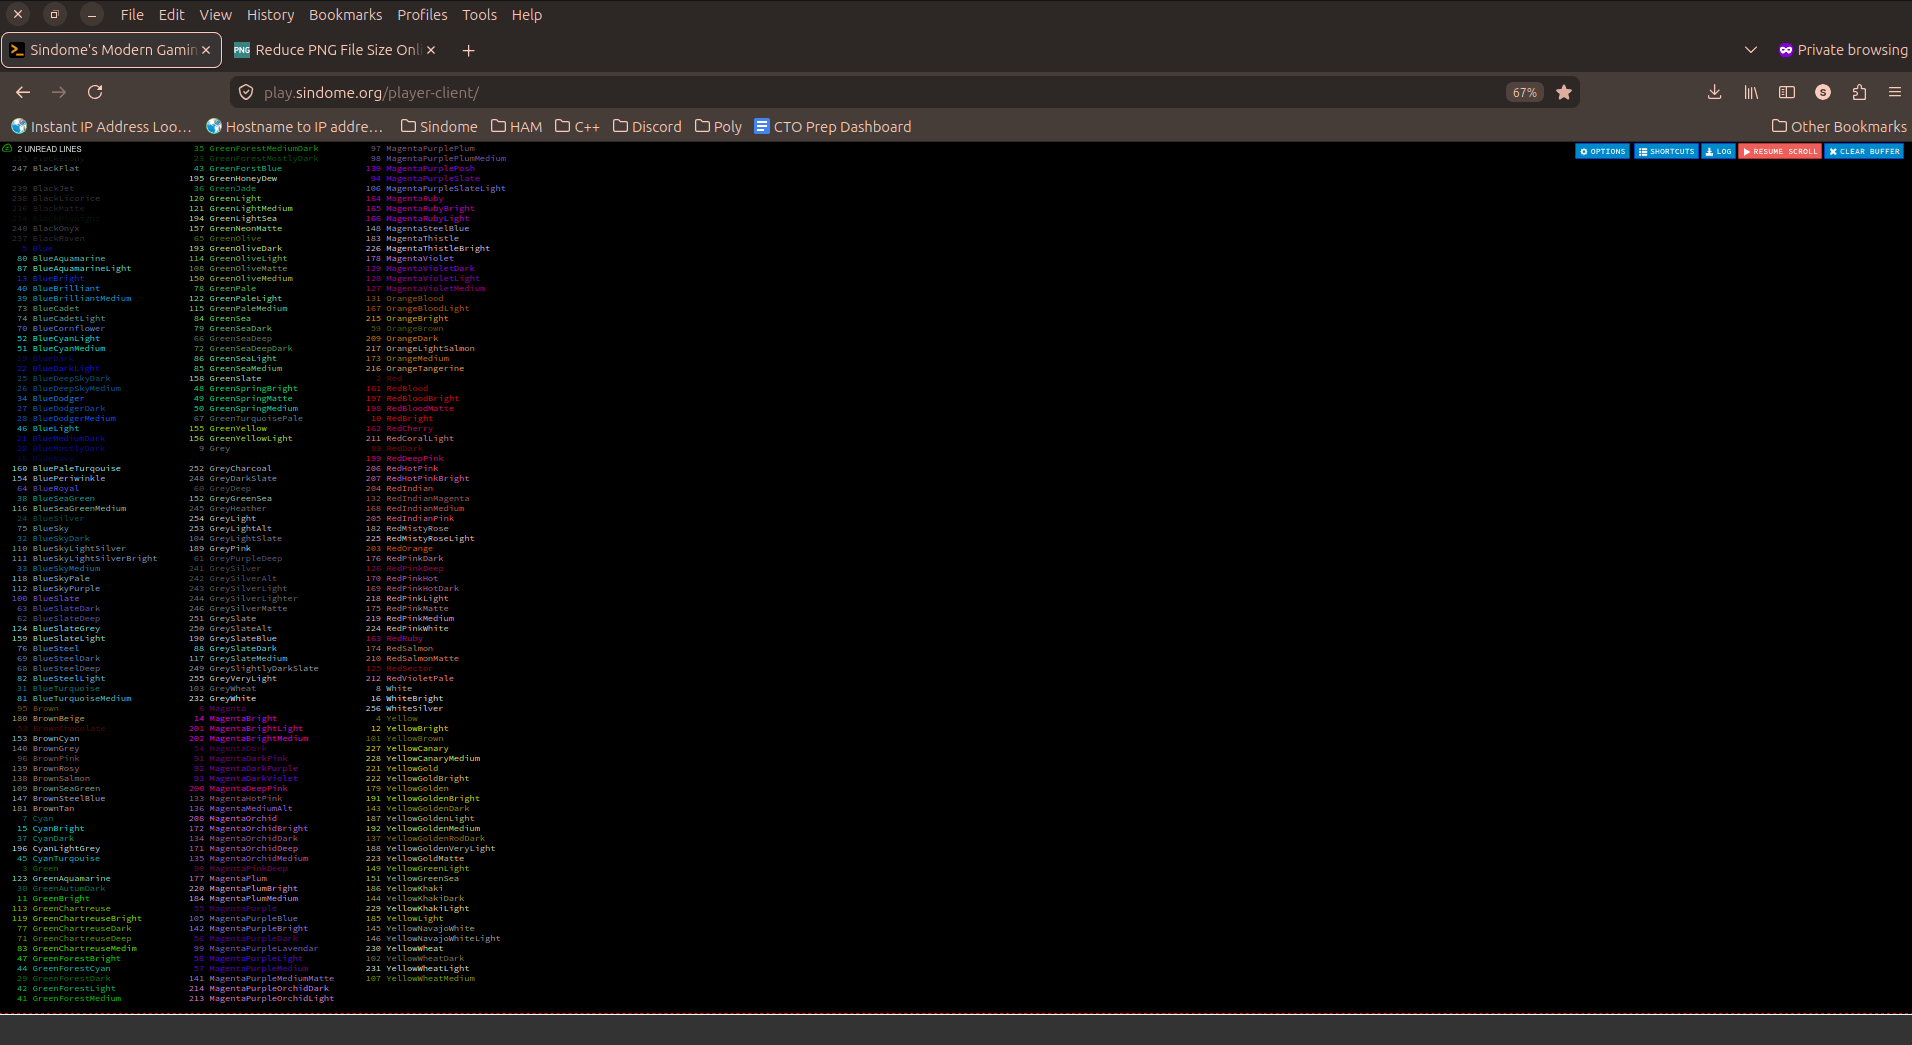
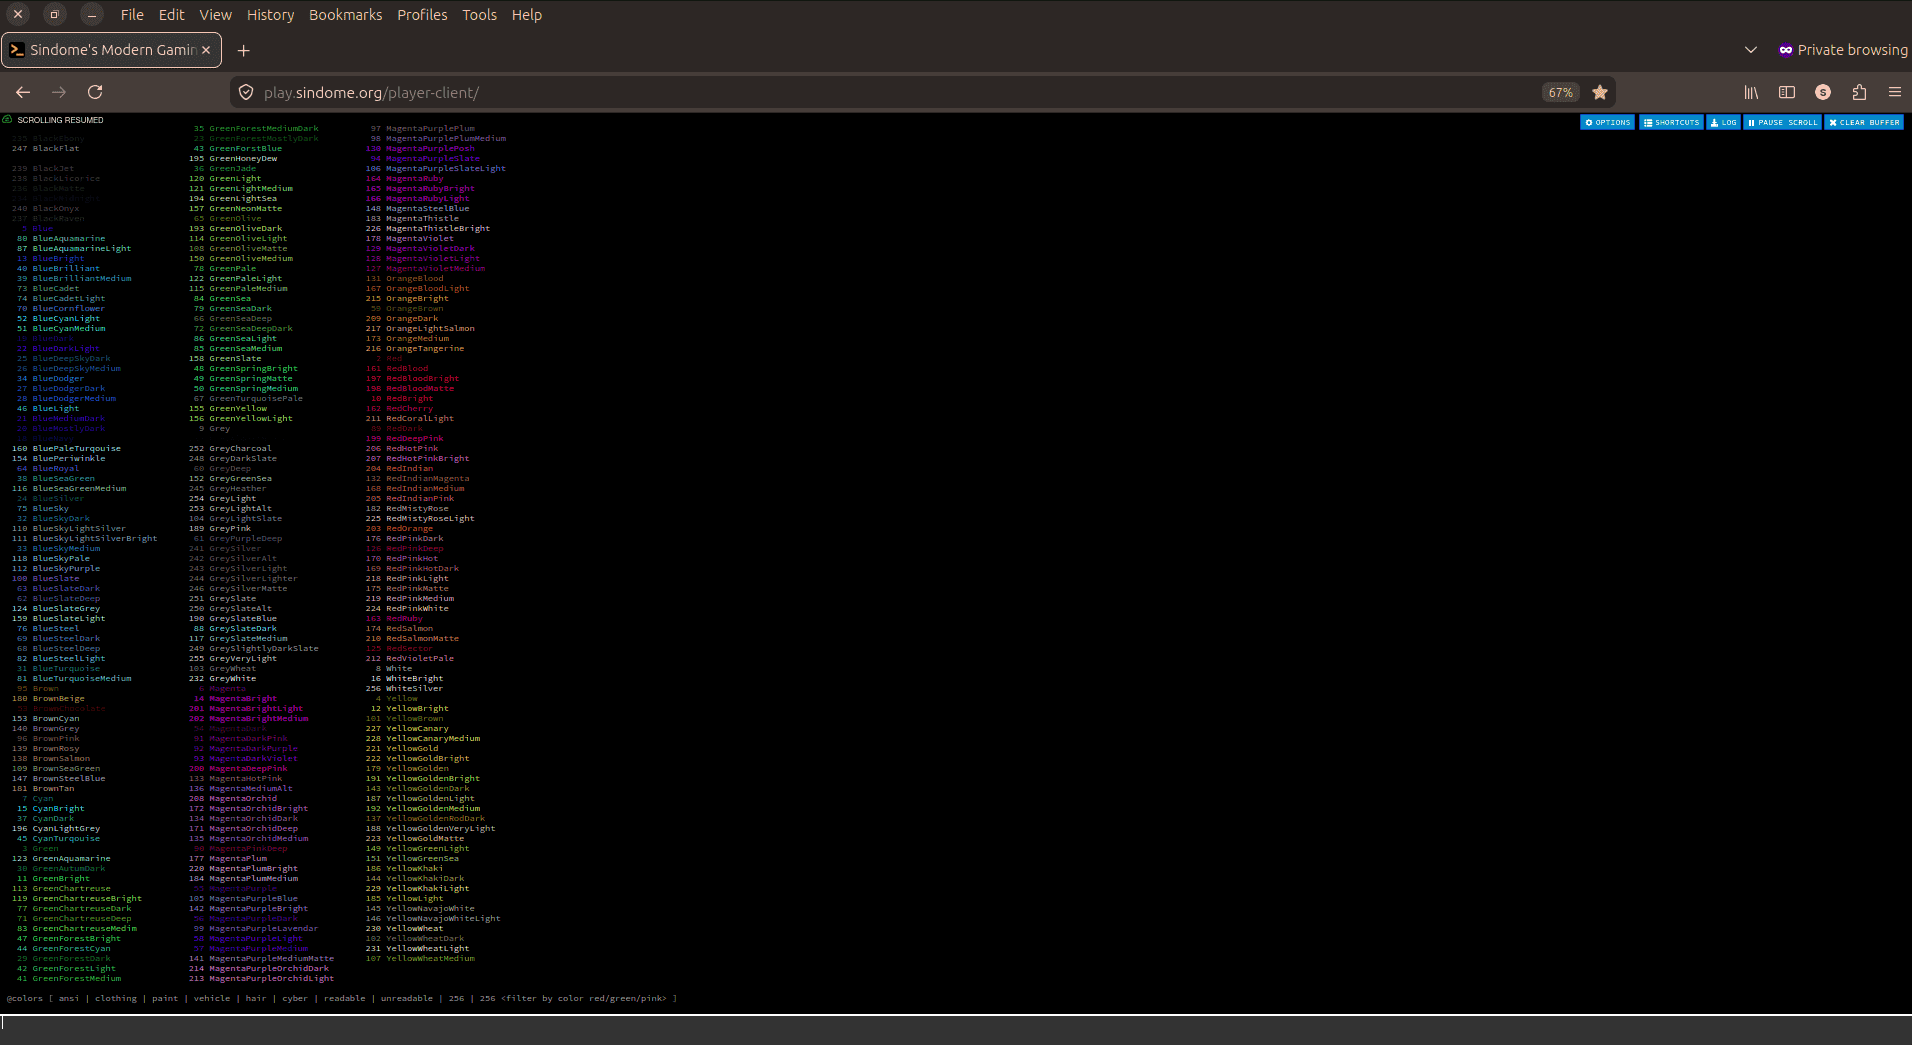
updated readme and screenshots

Changed region(s): [[0.0, 0.0612, 1.0, 0.9799], [0.1234, 0.0306, 0.216, 0.0612], [0.9257, 0.0306, 0.9566, 0.0612]]

diff --git a/README.md b/README.md
@@ -38,9 +38,6 @@ It is a browser-based MUD client built with Node.js, Express, and Socket.io. It 
 
 ## Screenshots
 
-### Welcome / Connect
-![Welcome page and connection flow](docs/images/welcome-page.png)
-
 ### Client Connection
 ![Client connection view](docs/images/client-connection.png)
 